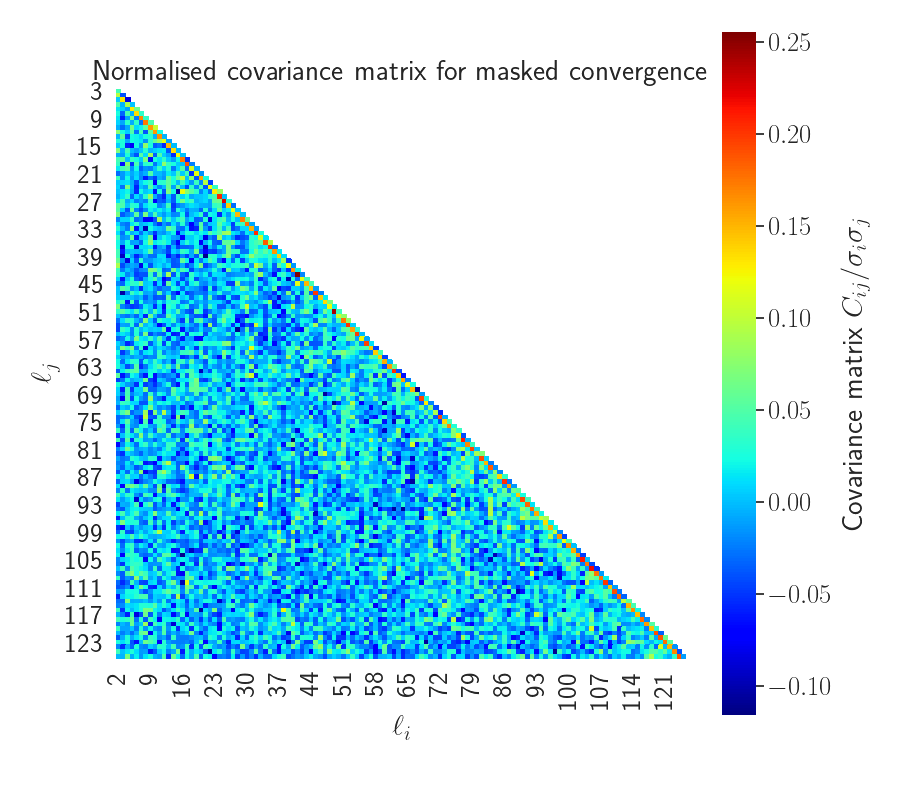
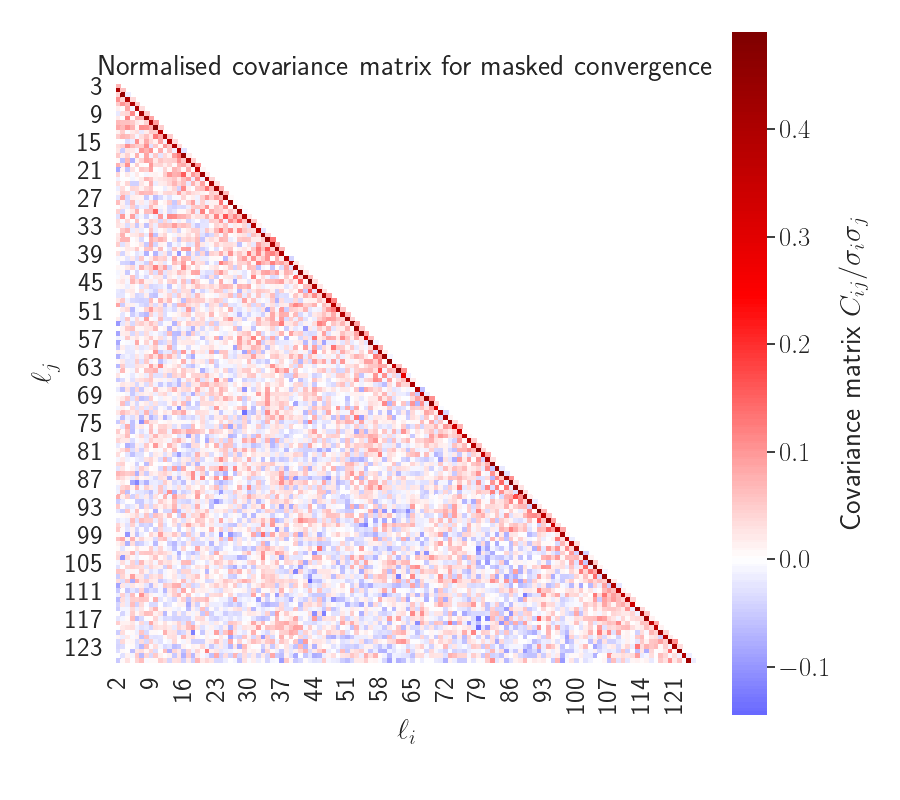
Update Markdown logbook files

diff --git a/docs/InvestigatingMasks.md b/docs/InvestigatingMasks.md
@@ -162,6 +162,10 @@ for our masked values, which gives:
 Here, we see that there is a very interesting peak that lies on the diagonal between *l* and *l* - 2. Here, we see a strong
 positive correlation between these values that was not previously observed for the unmasked values.
 
+**Note:** I have updated this plot with a new colour-bar which better reflects the nature of this data. Here, we still
+see the extremely strong correlation between *l* and *l* ± 2 modes, and again very little correlation outside of these
+modes.
+
 ## Looking at *Cl* bleed between *l*'s for masked maps
 
 Above, we can see that for our masked maps, there seems to be a slight positive correlation between different *l* modes
@@ -176,3 +180,181 @@ Now that we have these two maps, we can apply the Euclid mask and recover what t
 maps, which is shown below.
 
 ![Combined dummy mask](figures/investigating_masks/Cl_bleed/Recov_power_spec.png)
+
+## Power spectra for an ensemble for different masks
+
+Here, we want to look at the statistical features in the power spectrum by applying different sized masks. To do so, we
+need to average over vary many different realisations of individually masked maps to be able to view the affects of the
+mask, and isolate statistical noise to the best that we can.
+
+### Constructing nine masks
+
+First, we needed to construct a variety of masks that have different sky fractions. To do so, we generalised the previous
+method of constructing galactic and ecliptic cuts for the Milky Way and Solar System, respectively, but dynamically
+changing the thickness of the two cuts. Implementing this over a range of different thicknesses gives us the following
+nine masks
+
+![Nine masks](figures/investigating_masks/many_masks/9masks.png)
+
+We can see that our process has generated masks that range from blocking nearly all of the pixels through to letting
+most of the pixels through. By applying these different masks to many different convergence maps, we can try to find
+any statistical trends in the *Cl*'s on the sky-fraction.
+
+### Editing Flask
+
+In order to implement the masking and recovery of the *Cl* values for our many different masks in the most efficient way
+possible, the source code of Flask was edited to include the desired functionality.  
+The result of this was that Flask would recover eleven sets of *Cl* values for each realisation of the convergence map
+(the nine masks above, plus the Euclid mask, and of course the unmasked values), and save each to the disk. These were
+then read in by the Python code to be added to existing DataFrames.  
+With N_side of 1024 and l_max of 1000, both for performance reasons, the code took an average of 5.8 seconds per sample
+to do this.
+
+### Results
+
+We now present the results of averaging over our ensemble of maps, where we have generated 6,000 maps.
+
+#### Deviation from input power spectra
+
+Here, we want to look at how the average power spectra recovered from the masked maps deviates from the input power
+spectrum. Note that we have used a rolling average using three *l* modes at each point, which helped smooth out some
+of the rapid oscillations present in the recovered data, leaving behind the underlying pattern.
+
+![Nine masks](figures/investigating_masks/many_masks/RelativeDifference.png)
+
+Here, we see some very interesting behaviour: for low-*l* modes (less than around 200) we see that there is reduced power
+for the masked maps compared to the original power spectrum. We see that the more heavily the map is masked (indicated by
+a lower f<sub>sky</sub>), the more the power is suppressed on these large angular scales.
+Then above this point, there seems to be slightly more power compared to the original power spectrum,
+again with this increase growing as we decrease f<sub>sky</sub>.
+
+#### Variance
+
+We now want to look at how the variance of the recovered *Cl*'s change as we increase the masking of the maps. This
+is shown in the following figure
+
+![Nine masks](figures/investigating_masks/many_masks/Variance.png)
+
+Here, we have plotted the expectation from the Γ-distribution as a dashed cyan line. Here we see that as we decrease
+f<sub>sky</sub>, the variance seems to increase with a constant factor across all *l*. We can quantify this increase, by
+taking the ratio of the recovered lines with the expected values, to give
+
+![Nine masks](figures/investigating_masks/many_masks/VarianceRatio.png)
+
+Here, we see that for all lines except for the most heavily masked maps, this ratio is basically constant across all *l*,
+and is some function of f<sub>sky</sub>. A few functions were tried, e.g. 1/f<sub>sky</sub> and 1/sqrt(f<sub>sky</sub>),
+but nothing tired *yet* seems to fit these values.
+
+#### Skew
+
+We now want to look at the third moment of the *Cl*'s, skew. Again, we have taken a rolling average of three *l* modes
+to damp down some of the oscillations present in the original data.
+
+![Nine masks](figures/investigating_masks/many_masks/Skew.png)
+
+Here, we see that as we decrease f<sub>sky</sub>, the skewness increases, showing that even at very large *l* the
+skewness deviates significantly from the Gaussian case and from the expected values from the Γ-distribution (which
+is shown in the dashed cyan line).
+
+#### Kurtosis
+
+We can now look at the third moment of the *Cl*'s, kurtosis. Again, we have taken a rolling average of three *l* modes
+to clean up the data somewhat.
+
+![Nine masks](figures/investigating_masks/many_masks/Kurtosis.png)
+
+Again, we see that as we decrease f<sub>sky</sub>, the kurtosis of the data increases. However, once *l* increases past
+around 100, all lines except the most heavily masked, reduce to basically zero kurtosis (except noise).
+
+### Signal-to-noise of masked maps
+
+A very simple signal-to-noise calculation was performed for the nine masks above, averaging over our ensemble of
+six thousand realisations. Here, we have used the theoretical covariance matrix from the Γ-distribution, which assumes
+that all *l*-modes are independent of each other. This is true for our unmasked map, but we note that modes start to
+mix with each other as we introduce a mask. The results of this are
+
+![Signal to noise](figures/investigating_masks/Signal-to-noise.png)
+
+Here, we see that as we increase the fraction of sky surveyed, the S/N ratio increases, which is what we expected.
+
+## Recovering cosmological parameters from masked maps
+
+Now that we have established methods to mask convergence maps and naively recover the unmasked power spectrum, we can
+apply these methods to recover the cosmological parameters that were used to generate the original map. This is a
+formulation of a **very basic** likelihood code, which seeks to evaluate the posterior as a function of a singular
+cosmological parameter to find the maximum-likelihood value.  
+
+First, though, we need to define what the likelihood is in our case. Here, we have one set of "observed" *Cl*'s, denoted
+with a hat, and want to find the most likely parameters of our model that go into generating our theory *Cl*'s. If we
+assume that the *Cl*'s are normally distributed (we have shown this not to be true, but we will apply this approximation
+anyway), then we find that for a single *Cl* value, the logarithm of the posterior probability is proportional to
+
+<center>
+<img src="https://render.githubusercontent.com/render/math?math=-\ln f(C_\ell \,|\, \hat{C}_\ell) \propto (2 \ell %2B 1) \left[\ln(C_\ell) %2B \frac{\hat{C}_\ell}{C_\ell} \right]." height=45> 
+</center>
+
+Since the total likelihood is proportional to the multiplication of *f* over all *l*, the log-likelihood will simply
+be the sum of the above quantity over all *l*:
+
+<center>
+<img src="https://render.githubusercontent.com/render/math?math=-\ln \mathscr{L} \propto \sum_{\ell} (2 \ell %2B 1) \left[\ln(C_\ell) %2B \frac{\hat{C}_\ell}{C_\ell} \right]." height=45> 
+</center>
+
+Here, we have assumed a uniform prior on the theory *Cl*'s (and thus cosmological values), but this can be incorporated
+into the above equation if so desired.
+
+We can now implement the above equation into our code, and extract results from it.
+
+### Recovering A_s
+
+The first parameter that was attempted to be recovered from a map was the scalar amplitude A_s. Here, we computed the
+likelihood for the unmasked map, the Euclid-like mask, and our first mask with f<sub>sky</sub> = 0.15%. This allows us
+to see if applying a mask changes the recovered cosmological parameters, even for our very simple case.
+
+The first test was on a pre-existing convergence map which was generated with A_s = 2.1E-9, so we want to see how
+close we can get to this value using our maximum-likelihood technique.
+
+![Nine masks](figures/recovering_params/A_s1.png)
+
+Here, we can see that the maximum-likelihood values predicted by all three maps are very close to the original value
+(which is shown by the dashed cyan line in the zoomed insert). We can see that the affect of masking gradually
+decreases the recovered A_s parameter, with the results being
+
+* Unmasked map: A_s = 2.102E-9
+* Euclid mask: A_s = 2.099E-9
+* Crazy mask: A_s = 2.094E-9
+
+Hence, even our crazy mask predicts a value of A_s that is very close to the true value, which is encouraging!
+
+We can now repeat the same analysis, but for a true A_s of 2.25E-9, just to see how robust the predictions are.
+
+![Nine masks](figures/recovering_params/A_s2.png)
+
+Here, we now see that the unmasked and Euclid masked maps predict A_s values that are very close to the true value,
+with our crazy mask predicting somewhat of a lower value of A_s, but still in the right ballpark:
+
+* Unmasked map: A_s = 2.252E-9
+* Euclid mask: A_s = 2.251E-9
+* Crazy mask: A_s = 2.215E-9
+
+### Recovering the neutrino masses
+
+Above, we were just trying to recover A_s, which simply scales the entire power spectrum and so is quite a simple value
+to predict from a map. Here, we wish to extend the above analysis, but now try to recover the sum of the neutrino masses.
+This causes scale-dependant suppression in the power spectrum, and so may be harder to predict than a simple scaling.
+
+Again, we look at the unmasked map, the Euclid-like mask, and our crazy mask.
+
+![Nine masks](figures/recovering_params/m_nu1.png)
+
+Here, we see some interesting results: all likelihoods dip around m_nu = 0.02eV, which causes the maximum-likelihood
+value for the unmasked map to be much smaller than what it should be. The two masked maps also feature this dip,
+but with is slightly weaker, and so the maximum-likelihood values here are much closer to the input value of 0.06eV.
+The results for this are:
+
+* Unmasked map:  sum m_nu = 0.00214 eV
+* Euclid mask: sum m_nu = 0.0587 eV
+* Crazy mask:  sum m_nu = 0.0620 eV
+
+Hence, even with a much harder value to predict from a map, our maximum-likelihood technique still manages to recover
+sensible, and quite close, values for the two masked maps.
